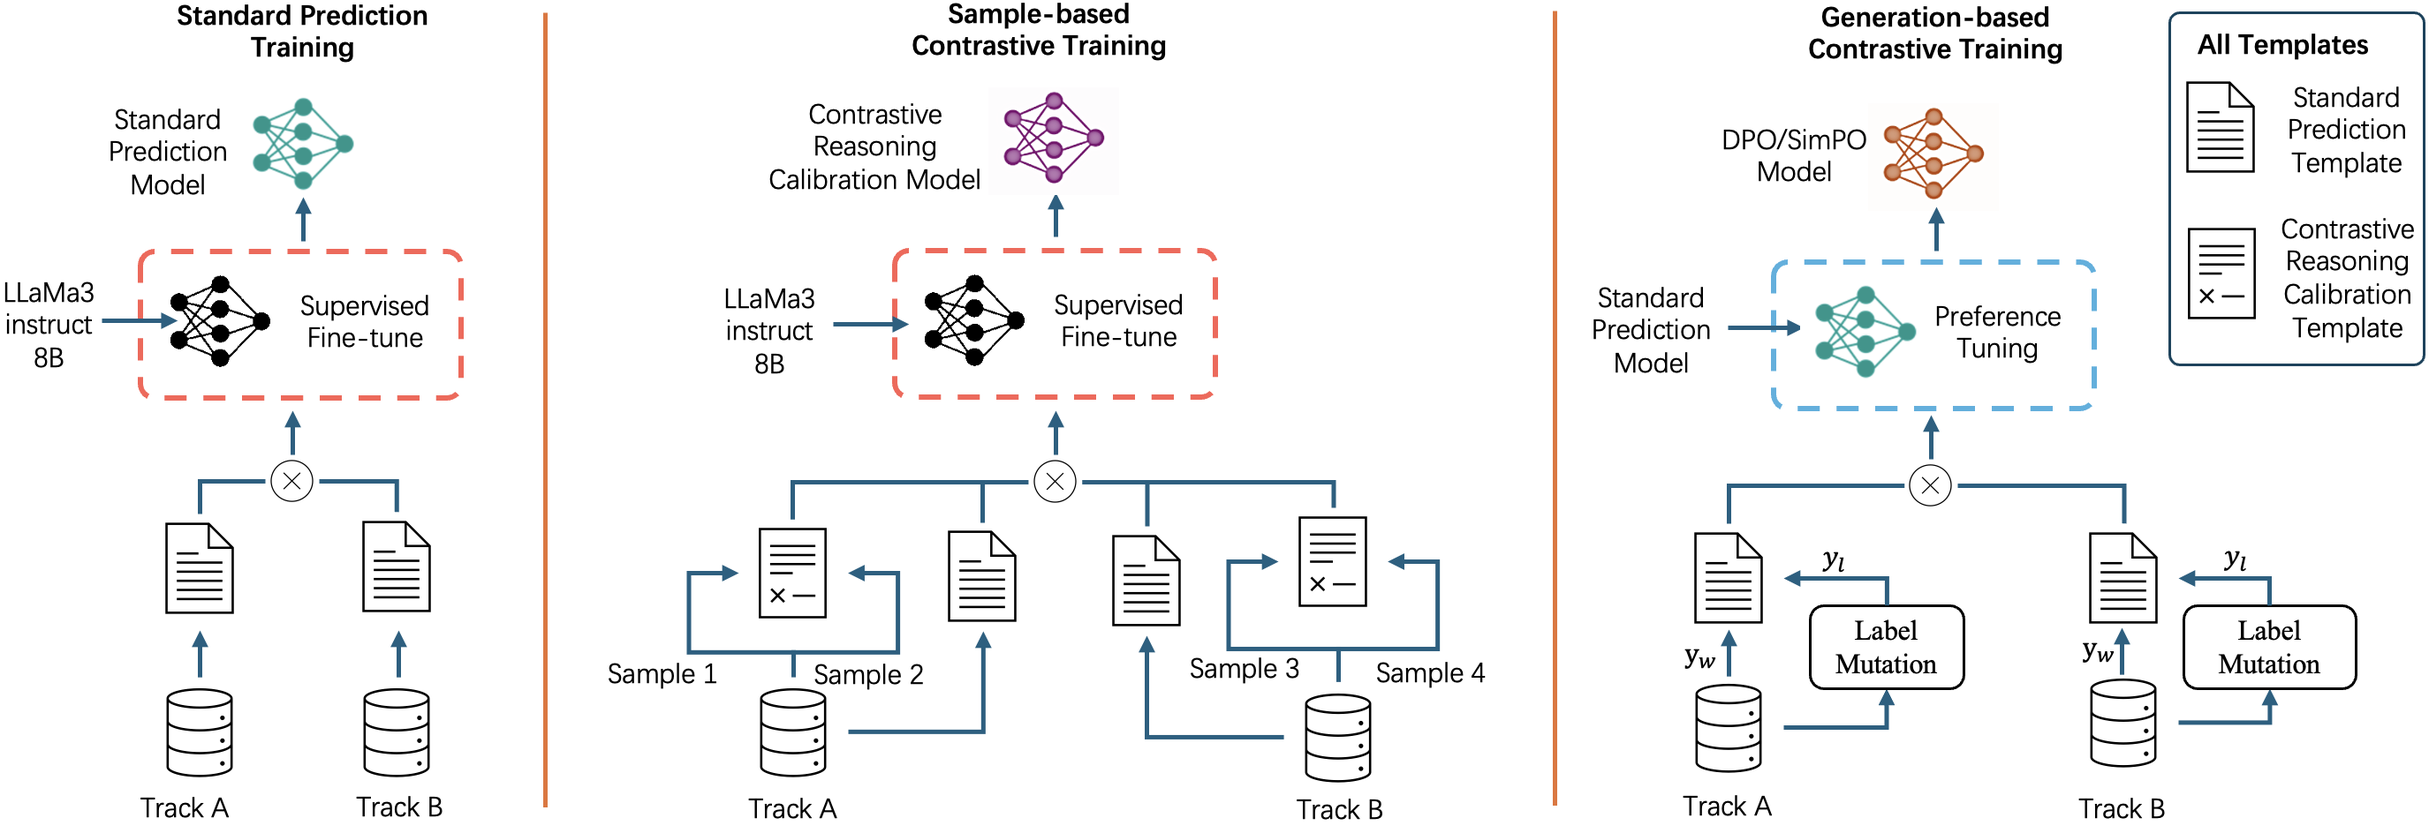
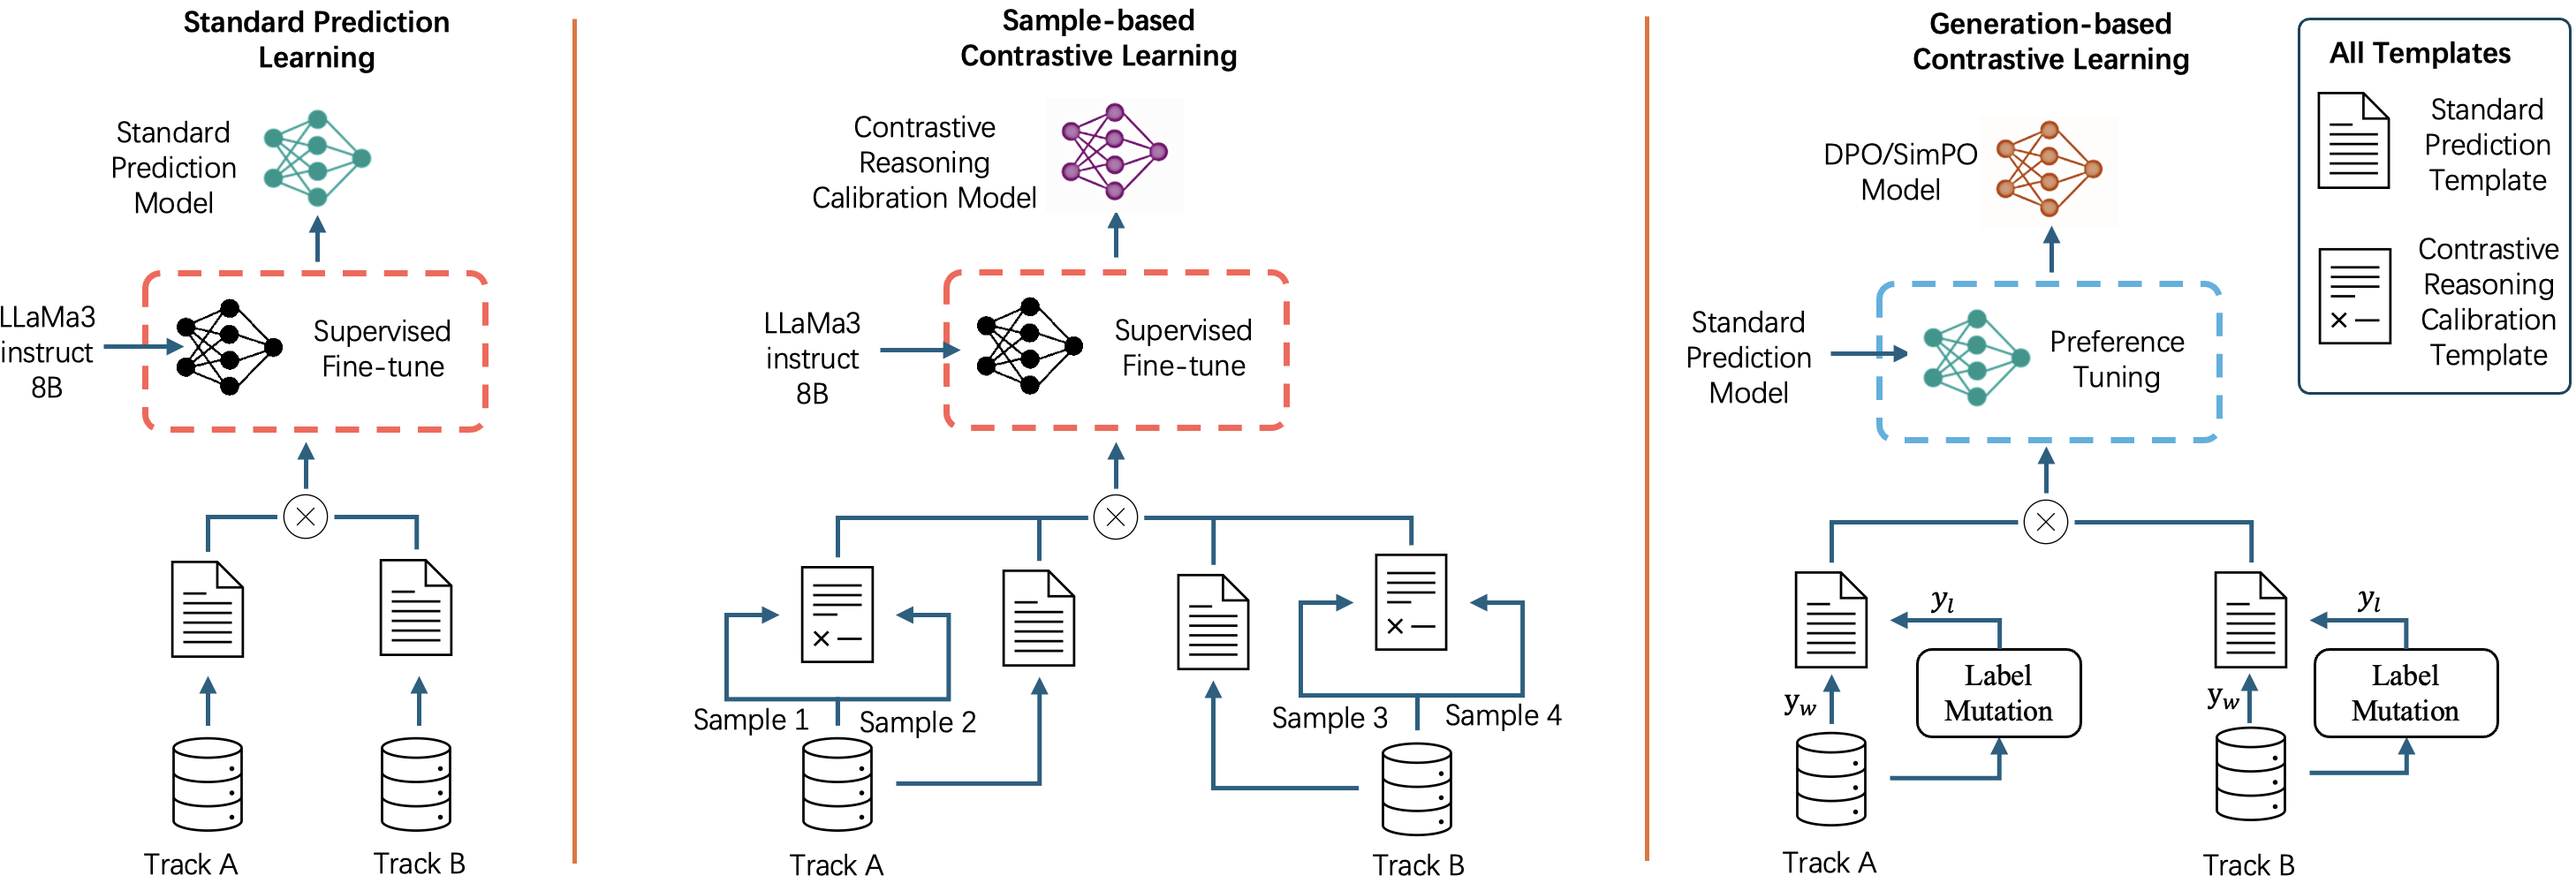
Small modifications on approach nnames

diff --git a/acl_latex.tex b/acl_latex.tex
@@ -55,7 +55,7 @@
   \textsuperscript{1}School of Computing, Newcastle University, Newcastle upon Tyne, UK\\
   \textsuperscript{2}Shumei AI Research Institute, Beijing, China
 \\
-  \texttt{t.li56@newcastle.ac.uk},\texttt{sunyujian@ishumei.com},\\\texttt{huizhi.liang@newcastle.ac.uk}
+  \texttt{t.li56@newcastle.ac.uk}, \texttt{sunyujian@ishumei.com},\\\texttt{huizhi.liang@newcastle.ac.uk}
 }
 
 % Author information can be set in various styles:
@@ -176,7 +176,7 @@ To address both tracks while supporting emotion prediction across 28 languages, 
 
 % 由于情感表达的复杂性和情感标签的不确定性，我们决定采用两套备选方案：基于样本的对比方案和基于生成结果的对比方案。基于样本的对比方案采用CRC技术。其原理是通过样本比较的方式，让模型生成多条更加可靠的的预测并进行投票表决。基于生成结果的对比方案采用偏好优化技术，通过增加正确输出的对数概率并减少错误输出的对数概率，优化模型对于标签的理解能力。受限于计算资源限制，我们探索了DPO与Orpo这两个无需reward model的方案。
 
-In this paper, we explore two alternative approaches - sample-based contrastive learning and generation-based contrastive learning - to address the complexity of emotional expression and the ambiguity of sentiment labels. The sample-based approach leverages Contrastive Reasoning Calibration technology (CRC) \cite{li2024chinchunmei}, which enhances prediction reliability by generating multiple predictions through sample comparisons and aggregating them via majority voting. The generation-based approaches employ preference optimization techniques \cite{rafailov2023direct, hong2024orpo, meng2025simpo}, refining the model’s comprehension of sentiment labels by increasing the log probability of correct outputs while reducing that of incorrect ones. Given computational constraints, we only explore DPO \cite{rafailov2023direct} and SimPO\cite{meng2025simpo}, two widely acknowledged methods that do not require the reward model.
+In this paper, we explore two alternative types of approaches - sample-based contrastive learning and generation-based contrastive learning - to address the complexity of emotional expression and the ambiguity of sentiment labels. The sample-based approach leverages Contrastive Reasoning Calibration technology (CRC) \cite{li2024chinchunmei}, which enhances prediction reliability by generating multiple predictions through sample comparisons and aggregating them via majority voting. The generation-based approaches employ preference optimization techniques \cite{rafailov2023direct, hong2024orpo, meng2025simpo}, refining the model’s comprehension of sentiment labels by increasing the log probability of correct outputs while reducing that of incorrect ones. Given computational constraints, we only explore DPO \cite{rafailov2023direct} and SimPO\cite{meng2025simpo}, two widely acknowledged methods that do not require the reward model.
 
 % 我们的核心贡献如下
 
@@ -188,7 +188,7 @@ Our key contributions are as follows:
 
 \begin{itemize}
 	\item We explored the impact of non-English data on English sentiment prediction under limited computational resources. Surprisingly, experimental results indicate that incorporating non-English data degrades performance in both classification tasks (Track A) and scoring tasks (Track B).
-	\item We conducted an comprehensive evaluation and bad case analysis of two contrastive approaches on the competition dataset. In the sample-based contrastive category, CRC technology yielded limited benefit. In the generation-based contrastive category, DPO demonstrated a significant positive effect on Track B. Although SimPO has achieved gains on some labels, the overall effect has dropped significantly. 
+	\item We conducted an comprehensive evaluation and bad case analysis of two contrastive approaches on the competition dataset. In the sample-based contrastive Learning, CRC technology yielded limited benefit. In the generation-based contrastive Learning, DPO demonstrated a significant positive effect on Track B. Although SimPO has achieved gains on some labels, the overall effect has dropped significantly. 
 	\item In the leaderboard, our approach achieved Track A top 10 in 16 languages and 12th in English; Track B top 10 across all languages and 7th in English.
 \end{itemize}
 
@@ -236,7 +236,7 @@ Given that random pairwise sampling can generate a vast amount of training data,
 
 During inference, each test sample is paired with a randomly selected training sample to form a contrastive input. Since the model achieves highly accurate predictions on training samples, these trained samples serve as reliable reference points, reducing prediction uncertainty. The two samples are integrated into the CRC prompt template, with the test sample randomly assigned to either position 1 or position 2. This process is repeated $N$ times to generate $N$ different input instances, producing $N$ predictions. The final score is determined through a voting mechanism, where the most frequently predicted score is selected as the final output.
 
-\subsection{Generation-based contrastive approaches}
+\subsection{Generation-based contrastive learning}
 
 % 为了强化模型对于打分的敏感性，我们还引入了perference optimiztion。 但是，受限于计算资源，我们仅试验了无需reward model的技术方案。其中包括DPO， SimPO， 以及Orpo
 
